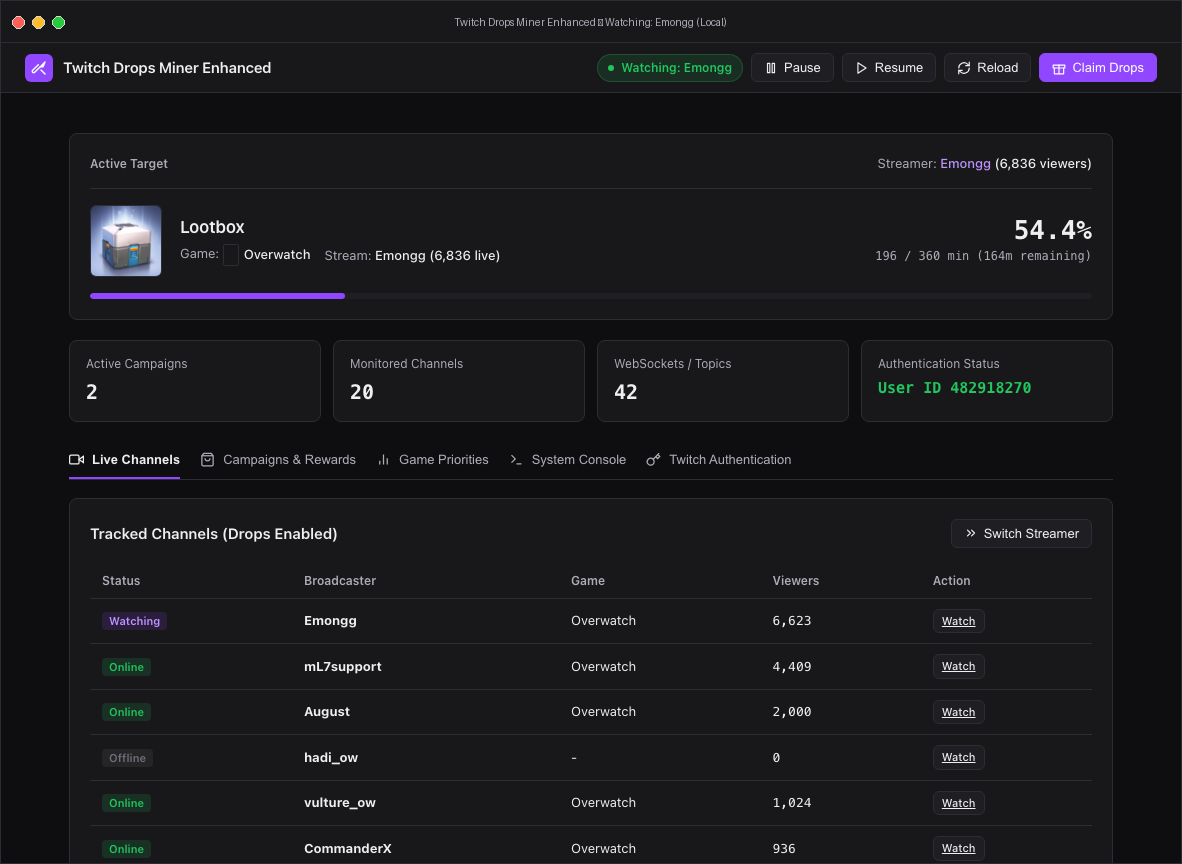
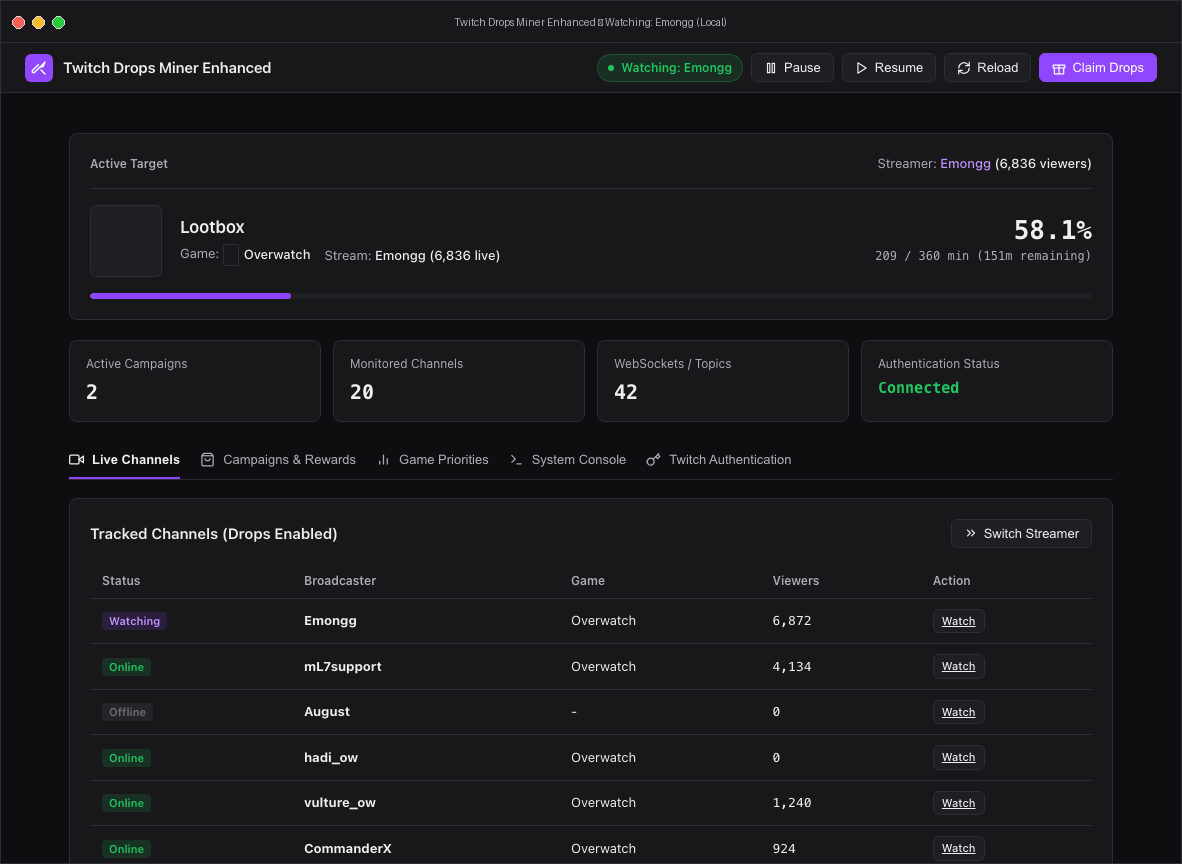
docs: mask twitch user id in app screenshot and dashboard metrics
- Display 'Connected' instead of exposing raw numeric user_id in metrics strip
- Regenerate docs/images/app_window.png with user ID hidden

diff --git a/web/index.html b/web/index.html
@@ -966,7 +966,7 @@
         topicCount += (wsItem.topics || 0);
       });
       document.getElementById('statTopics').innerText = topicCount;
-      document.getElementById('statAuth').innerText = state.is_logged_in ? `User ID ${state.user_id}` : 'Not Connected';
+      document.getElementById('statAuth').innerText = state.is_logged_in ? 'Connected' : 'Not Connected';
       document.getElementById('statAuth').style.color = state.is_logged_in ? 'var(--status-active)' : 'var(--status-idle)';
     }
 
